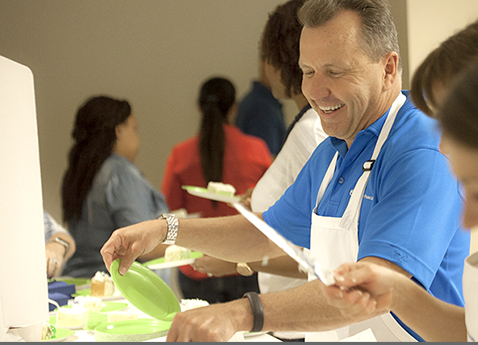
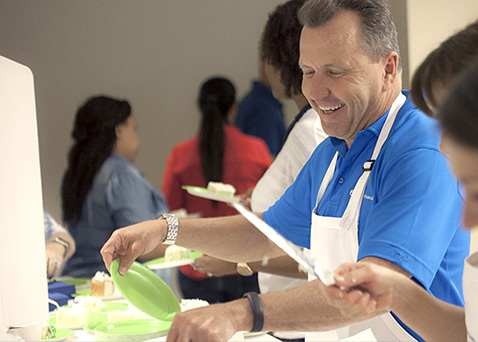
optimized images with panda, tooltips on map

diff --git a/app/index.html b/app/index.html
@@ -114,13 +114,28 @@
                     <p class="map-text">We cover the country from sea to sea, but more importantly, we're adding more coverage all the time. It's all part of our mission to create the best customer experience possible.</p>
                     <div class="map-usa"></div>
                     <div class="pin-container">
-                        <span class="pin pin-1"><img src="./images/green-location-icon.png" alt=""></span>
-                        <span class="pin pin-2"><img src="./images/green-location-icon.png" alt=""></span>
-                        <span class="pin pin-3"><img src="./images/green-location-icon.png" alt=""></span>
-                        <span class="pin pin-4"><img src="./images/green-location-icon.png" alt=""></span>
+                        <div class="pin pin-1">
+                            <img src="./images/green-location-icon.png" alt="">
+                            <div class="tooltip">Somewhere, CA</div>
+                        </div>
+                        <div class="pin pin-2">
+                            <img src="./images/green-location-icon.png" alt="">
+                            <div class="tooltip">Somewhere, CA</div>
+                        </div>
+                        <div class="pin pin-3">
+                            <img src="./images/green-location-icon.png" alt="">
+                            <div class="tooltip">Somewhere, CA</div>
+                        </div>
+                        <div class="pin pin-4">
+                            <img src="./images/green-location-icon.png" alt="">
+                            <div class="tooltip">Somewhere, CA</div>
+                        </div>
                     </div>
-                    <div class="pin pin-text"><img src="./images/green-location-icon.png" alt="">Fullfillment Centers</div>
-                    <div class="pin pin-color"><img src="./images/blue-dot.png" alt="">Licensed in 49 States</div>
+                    <div class="legend legend-text"><img src="./images/green-location-icon.png" alt=""><span>Fullfillment Centers</span></div>
+                    <div class="legend legend-color">
+                        <img src="./images/blue-dot.png" alt="">
+                        <span>Licensed in 49 States</span>
+                    </div>
                 </div>
                 <!-- graph -->
                 <div class="graph-wrapper">
@@ -140,7 +155,10 @@
                     <h2>Title of this section</h2>
                     <p>Lorem ipsum dolor sit amet, consectetur adipisicing elit. Facere voluptatibus dolorum voluptatem, debitis perspiciatis, molestiae nihil esse quibusdam atque sunt consequuntur quaerat, animi!</p>
                     <div class="badges">
-                        <img src="./images/badges-and-reflection.png" alt="">
+                        <img src="./images/top-10-gov-lender.png" alt="" class="badge">
+                        <img src="./images/top-25-mort-lender.png" alt="" class="badge">
+                        <img src="./images/glassdoor-rating.png" alt="" class="badge">
+                        <img src="./images/google-rating.png" alt="" class="badge">
                     </div>
                 </div>
             </div> <!-- end section  -->

diff --git a/app/styles/modules/_map-usa.sass b/app/styles/modules/_map-usa.sass
@@ -16,7 +16,7 @@
 	&.active
 		opacity: 1
 		.pin
-			@for $i from 1 through 5
+			@for $i from 1 through 4
 				&:nth-child(#{$i})
 					animation: 
 						name: ping
@@ -61,35 +61,69 @@
 		&-1
 			top: 43%
 			left: 14.5%
+			.tooltip
+				left: -11%
 		&-2
 			top: 61%
 			left: 49%
+			.tooltip
+				left: -25%
 		&-3
 			top: 43.5%
 			left: 82%
+			.tooltip
+				left: -25%
+				top: -90%
 		&-4
 			top: 49%
 			left: 80%
+			.tooltip
+				left: -25%
+			
+		.tooltip
+			position: absolute
+			opacity: 0
+			color: $white
+			font-family: "Gotham Book"
+			font-size: 1rem
+			text-align: center
+			transform: scale(0)  
+			transition: all 300ms ease-in
+		&:hover
+			.tooltip
+				opacity: 1
+				transform: scale(1)
+	.legend
+		width: 35px
+		height: 40px
+		z-index: 2 
+		position: absolute
 		&-text
 			font-family: 'Gotham Book'  
 			color: $white
 			top: 75%
 			left: 50%
-			display: inline-block
+			display: flex
 			width: 20%
-			transform: translate(0px, 0px) scale(1)
+			height: auto
 			img
-				padding-right: 2rem
+				width: 26px
+				height: 35px
+			
 		&-color
 			font-family: 'Gotham Book'  
 			color: $white
-			top: 75.5%
+			top: 75%
 			left: 70%
-			display: inline-block
+			display: flex
 			width: 20%
-			transform: translate(0px, 0px) scale(1)
+			height: auto
 			img
-				padding-right: 2rem
+				width: 24px
+				height: 21px
+		span
+			margin-left: 2rem
+			text-align: left
 				
 			
 @keyframes ping

diff --git a/app/styles/sections/_fourth-sec.sass b/app/styles/sections/_fourth-sec.sass
@@ -1,64 +1,2 @@
 .fourth-sec
 
-	// .double, .single
-	// 	width: 100%
-	// 	transition: width 150ms ease-in
-	// 	float: left
-	// .single
-	//  	width: 100%
-	//  	h3
-	//  		font-family: 'Droid Serif', serif
-	//  		font-size: 3rem
-	//  	p
-	//  		font-family: 'Gotham Book'
-	//  		font-size: 1.5rem
-	//  		text-align: left
-	//  		line-height: 3rem
-	 
-	// .frame
-	// 	background-size: cover
-	// 	background-repeat: no-repeat 
-	// 	background-position: center 
-	// 	&-1
-	// 		background-image: url(../images/image1.jpg)
-	// 	&-2
-	// 		background-image: url(../images/image2.jpg)
-	// 	&-3
-	// 		background-image: url(../images/image3.jpg)
-	// 	&-4
-	// 		background-image: url(../images/image4.jpg)
-	// 	&-5
-	// 		background-image: url(../images/image5.jpg)
-	// 	&-6
-	// 		background-image: url(../images/image6.jpg)
-	// 	&-7
-	// 		background-image: url(../images/image7.jpg)
-
-		
-			
-	// @media screen and (min-width: 768px)
-	// 	.double
-	// 		width: 66.66%
-	// 		height: 33.33%
-	// 	.single
-	// 		width: 33.33%
-	// 		height: 33.33%
-	// @media screen and (min-width: 1024px)
-		
-	// 	.double
-	// 		width: 50%
-	// 	.single
-	// 		width: 25%
-	// 		h3
-	// 			font-family: 'Droid Serif', Serif
-	// 			font-size: 3rem
-	// 			text-align: left
-				
-	// 		p 
-	// 			font-family: 'Gotham Book'
-	// 			font-size: 1.5rem
-	// 			text-align: left
-	// 			line-height: 3rem
-				
-
-

diff --git a/app/scripts/main.js b/app/scripts/main.js
@@ -91,8 +91,12 @@ $(function() {
              
                 }
                 if(index == 3){
-                    $('.map-usa').addClass('active');    
-              
+                    $('.block-1').addClass('active'),
+                    $('.block-2').removeClass('active'),
+                    $('.block-3').removeClass('active'),
+                    $('.map-wrapper').addClass('active'),
+                    $('.achievements-wrapper').removeClass('active'),
+                    $('.graph-wrapper').removeClass('active');
                 }
                 if(index == 4){
               

diff --git a/app/styles/modules/_achievements.sass b/app/styles/modules/_achievements.sass
@@ -20,11 +20,31 @@
 		margin-left: 15%
 		padding: 5% 0 5%
 	.badges
+		position: absolute
+		top: 50%
 		width: 70%
 		margin-left: 15%
-		img
-			width: 100%
+		.badge
+			width: 17%
+			margin: 0 2rem
+			transform: scale(0)
+			
 	&.active
 		opacity: 1
-	
+		.badge
+			@for $i from 1 through 5
+				&:nth-child(#{$i})
+					animation: 
+						name: grow
+						duration: 500ms
+						delay: (150ms * $i)
+						timing-function: ease-in-out
+						fill-mode: forwards
+						
+	@keyframes grow
+		0%
+			transform: rotate(45deg) scale(0)
+		100%
+			transform: rotate(0deg) scale(1)
+		
 
